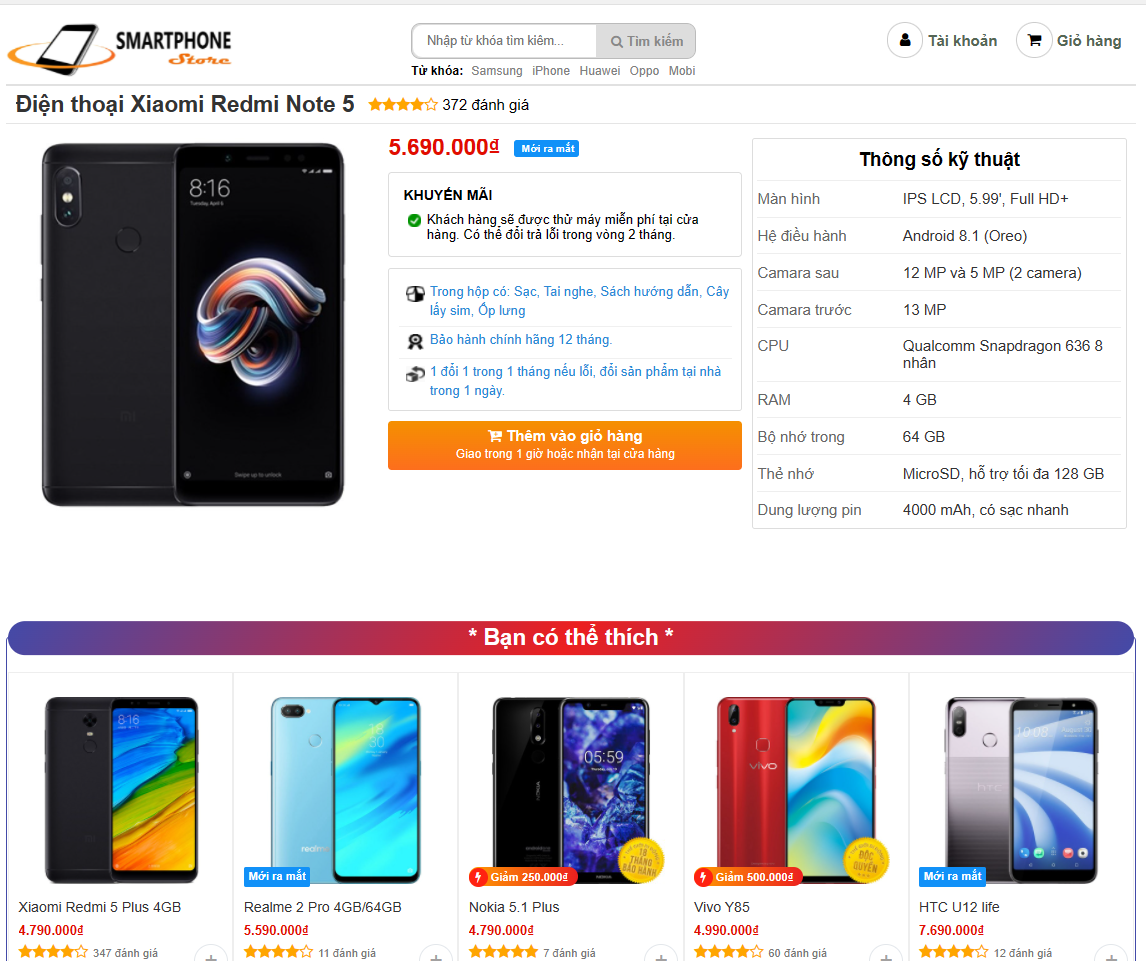
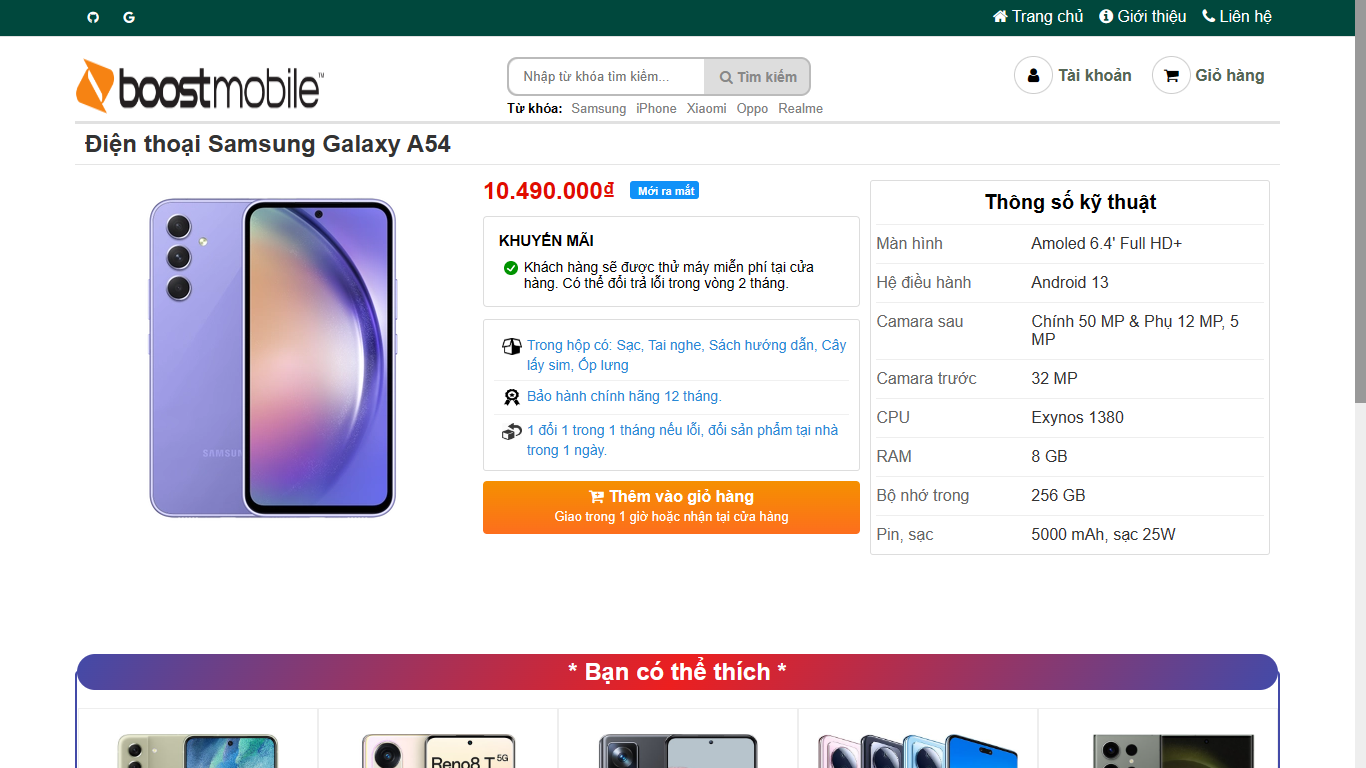
fix error and update file

diff --git a/lienhe.html b/lienhe.html
@@ -5,7 +5,7 @@
     <meta charset="UTF-8">
     <meta name="viewport" content="width=device-width, initial-scale=1.0">
     <meta http-equiv="X-UA-Compatible" content="ie=edge">
-    <title>Liên hệ - Thế giới điện thoại</title>
+    <title>Liên hệ - Contact</title>
     <link rel="shortcut icon" href="img/favicon.ico" />
 
     <!-- Load font awesome icons -->
@@ -39,23 +39,24 @@
             <div class="lienhe-info">
                 <div class="info-left">
                     <p>
-                        <h2 style="color: gray"> CÔNG TY CỔ PHẦN BOOSTMOOBILE </h2><br />
-                        <b>Địa chỉ:</b> 97 Man Thiện, Phường Hiệp Phú, Thành Phố Thủ Đức<br /><br />
-                        <b>Telephone:</b> xxx xxxx xxx<br /><br />
-                        <b>Hotline:</b> xxx xxxx xxx - CSKH: xxx xxxx xxx<br /><br />
-                        <b>Website:</b> <a href="https://github.com/HoangTran0410/DoAn_Web1">Github</a> <br /><br />
-                        <b>E-mail:</b> DoAn@gmail.com<br /><br />
-                        <b>Mã số thuế:</b> 01 02 03 04 05<br /><br />
-                        <b>Tài khoản ngân hàng :</b><br /><br />
-                        <b>Số TK:</b> 060008086888 <br /><br />
-                        <b>Tại Ngân hàng:</b> Agribank Chi nhánh Sài Gòn<br /><br /><br /><br />
-                        <b>Quý khách có thể gửi liên hệ tới chúng tôi bằng cách hoàn tất biểu mẫu dưới đây. Chúng tôi
-                            sẽ trả lời thư của quý khách, xin vui lòng khai báo đầy đủ. Hân hạnh phục vụ và chân thành
-                            cảm ơn sự quan tâm, đóng góp ý kiến đến Smartphone Store.</b>
+                    <h2 style="color: gray"> CÔNG TY CỔ PHẦN BOOSTMOOBILE </h2><br />
+                    <b>Địa chỉ:</b> 97 Man Thiện, Phường Hiệp Phú, Thành Phố Thủ Đức<br /><br />
+                    <b>Telephone:</b> xxx xxxx xxx<br /><br />
+                    <b>Hotline:</b> xxx xxxx xxx - CSKH: xxx xxxx xxx<br /><br />
+                    <b>Website:</b> <a href="https://github.com/hungp03/BoostStore">Github</a> <br /><br />
+                    <b>E-mail:</b> DoAn@gmail.com<br /><br />
+                    <b>Mã số thuế:</b> 0123456543210<br /><br />
+                    <b>Tài khoản ngân hàng :</b><br /><br />
+                    <b>Số TK:</b> 01234567890 <br /><br />
+                    <b>Tại Ngân hàng:</b> TP bank<br /><br /><br /><br />
+                    <b>Quý khách có thể gửi liên hệ tới chúng tôi bằng cách hoàn tất biểu mẫu dưới đây. Chúng tôi
+                        sẽ trả lời thư của quý khách, xin vui lòng khai báo đầy đủ. Hân hạnh phục vụ và chân thành
+                        cảm ơn sự quan tâm, đóng góp ý kiến đến BoostMobile Store.</b>
                     </p>
                 </div>
                 <div class="info-right">
-                    <iframe height="450px" width="100%" frameborder="0" scrolling="no" marginheight="0" marginwidth="0" src="https://maps.google.com/maps?width=600&amp;height=400&amp;hl=en&amp;q=97 Man Thien&amp;t=&amp;z=15&amp;ie=UTF8&amp;iwloc=B&amp;output=embed"></iframe>
+                    <iframe height="450px" width="100%" frameborder="0" scrolling="no" marginheight="0" marginwidth="0"
+                        src="https://maps.google.com/maps?width=600&amp;height=400&amp;hl=en&amp;q=97 Man Thien&amp;t=&amp;z=15&amp;ie=UTF8&amp;iwloc=B&amp;output=embed"></iframe>
                     <br />
                 </div>
             </div>
@@ -73,8 +74,8 @@
                             </tr>
                             <tr>
                                 <td>Điện thoại liên hệ</td>
-                                <td><input type="text" name="sdt" size="40" maxlength="11" minlength="10" placeholder="Điện thoại"
-                                        required></td>
+                                <td><input type="text" name="sdt" size="40" maxlength="11" minlength="10"
+                                        placeholder="Điện thoại" required></td>
                             </tr>
                             <tr>
                                 <td>Địa chỉ Email</td>
@@ -107,14 +108,13 @@
                             <th>MSSV</th>
                             <th>Giới tính</th>
                             <th>Lớp</th>
-                            <th>Tỉ lệ công việc</th>
                         </tr>
                         <script>
                             var thongtin = [
-                                ["Trần Văn Hoàng", "3117410091", "Nam", "DCT1175", "%"],
-                                ["Đàm Thế Hào", "3117410065", "Nam", "DCT1175", "%"],
-                                ["Huỳnh Trung Hiển", "3117410072", "Nam", "DCT1173", "%"],
-                                ["Hoàng Hiệp", "3117410074", "Nam", "DCT1175", "%"]
+                                ["Phạm Văn Hùng", "N21DCCN035", "Nam", "D21CQCN01-N"],
+                                ["Bùi Hữu Trí", "N21DCAT058", "Nam", "D21CQAT01-N"],
+                                ["Vũ Gia Huy", "N21DCCN039", "Nam", "D21CQCN01-N"],
+                                ["Hồ Anh Tuấn", "N21DCCN089", "Nam", "D21CQCN01-N"]
                             ]
                             for (var i = 0; i < thongtin.length; i++) {
                                 document.write(
@@ -128,9 +128,7 @@
                                     thongtin[i][2] + `</td>
                                         <td>` +
                                     thongtin[i][3] + `</td>
-                                        <td>` +
-                                    thongtin[i][4] +
-                                    `</td>
+                                
                                     </tr>
                                 `
                                 )

diff --git a/js/admin.js b/js/admin.js
@@ -253,8 +253,8 @@ function layThongTinSanPhamTuTable(id) {
     var cpu = tr[15].getElementsByTagName('td')[1].getElementsByTagName('input')[0].value;
     var ram = tr[16].getElementsByTagName('td')[1].getElementsByTagName('input')[0].value;
     var rom = tr[17].getElementsByTagName('td')[1].getElementsByTagName('input')[0].value;
-    var microUSB = tr[18].getElementsByTagName('td')[1].getElementsByTagName('input')[0].value;
-    var battery = tr[19].getElementsByTagName('td')[1].getElementsByTagName('input')[0].value;
+   
+    var battery = tr[18].getElementsByTagName('td')[1].getElementsByTagName('input')[0].value;
 
     if(isNaN(price)) {
         alert('Giá phải là số nguyên');
@@ -291,7 +291,6 @@ function layThongTinSanPhamTuTable(id) {
                 "cpu": cpu,
                 "ram": ram,
                 "rom": rom,
-                "microUSB": microUSB,
                 "battery": battery
             },
             "masp" : masp
@@ -418,7 +417,7 @@ function addKhungSuaSanPham(masp) {
             <td>
                 <select>`
                     
-    var company = ["Apple", "Samsung", "Oppo", "Nokia", "Huawei", "Xiaomi","Realme", "Vivo", "Philips", "Mobell", "Mobiistar", "Itel","Coolpad", "HTC", "Motorola"];
+    var company = ["Apple", "Samsung", "Oppo", "Nokia", "Asus", "Xiaomi","Realme", "Vivo", "Masstel", "Mobell", "Tecno", "Itel","Oneplus", "TCL", "ZTE"];
     for(var c of company) {
         if(sp.company == c)
             s += (`<option value="`+c+`" selected>`+c+`</option>`);
@@ -494,10 +493,6 @@ function addKhungSuaSanPham(masp) {
         <tr>
             <td>Bộ nhớ trong:</td>
             <td><input type="text" value="`+sp.detail.rom+`"></td>
-        </tr>
-        <tr>
-            <td>Thẻ nhớ:</td>
-            <td><input type="text" value="`+sp.detail.microUSB+`"></td>
         </tr>
         <tr>
             <td>Dung lượng Pin:</td>

diff --git a/js/dungchung.js b/js/dungchung.js
@@ -549,16 +549,13 @@ function addTopNav() {
 	<div class="top-nav group">
         <section>
             <div class="social-top-nav">
-                <a class="fa fa-facebook"></a>
-                <a class="fa fa-twitter"></a>
+                <a class="fa fa-github" href="https://github.com/hungp03/BoostStore"></a>
                 <a class="fa fa-google"></a>
-                <a class="fa fa-youtube"></a>
             </div> <!-- End Social Topnav -->
 
             <ul class="top-nav-quicklink flexContain">
                 <li><a href="index.html"><i class="fa fa-home"></i> Trang chủ</a></li>
                 <li><a href="gioithieu.html"><i class="fa fa-info-circle"></i> Giới thiệu</a></li>
-                <li><a href="trungtambaohanh.html"><i class="fa fa-wrench"></i> Bảo hành</a></li>
                 <li><a href="lienhe.html"><i class="fa fa-phone"></i> Liên hệ</a></li>
             </ul> <!-- End Quick link -->
         </section><!-- End Section -->
@@ -571,7 +568,7 @@ function addHeader() {
 	<div class="header group">
         <div class="logo">
             <a href="index.html">
-                <img src="img/logo.jpg" alt="Trang chủ Smartphone Store" title="Trang chủ Smartphone Store">
+                <img src="img/logo.jpg" alt="Trang chủ BoostMobile Store" title="Trang chủ BoostMobile">
             </a>
         </div> <!-- End Logo -->
 
@@ -877,9 +874,7 @@ function getThongTinSanPhamFrom_TheGioiDiDong() {
 						case "Bộ nhớ trong:":
 							result.detail.rom = giatri;
 							break;
-						case "Thẻ nhớ:":
-							result.detail.microUSB = giatri;
-							break;
+						
 						case "Dung lượng pin:":
 							result.detail.battery = giatri;
 							break;

diff --git a/css/topnav.css b/css/topnav.css
@@ -1,7 +1,7 @@
 /* Top Navigation */
 	.top-nav {
 		display: inline-block;
-		background: #f1f1f1;
+		background: #00483d;
 		width: 100%;
 		border-bottom: 1px #e1e1e1 solid;
 	}
@@ -19,16 +19,15 @@
 			height: 2em;
 			width: 2em;
 			line-height: 2em;
-			color: gray;
-			background-color: #f1f1f1;
+			color: white;
+			background-color: #00483d;
 			transition-duration: .2s;
 		}
+		
 		/* hightlight icon fb, google, youtube .... when hover */
 		.social-top-nav a:hover { color: #fff; }
-		.fa-facebook:hover { background: #3B5998; }
-		.fa-twitter:hover { background: #55ACEE; }
 		.fa-google:hover { background: #dd4b39; }
-		.fa-youtube:hover { background: #bb0000; }
+		.fa-github:hover { background: #090135; }
 	/* ======= End Social Icon ======= */
 
 	/* Quick link */
@@ -42,14 +41,14 @@
 		}
 		.top-nav-quicklink li a {
 			display: block;
-			color: gray;
-			padding: 8px 15px;
+			color: rgb(255, 255, 255);
+			padding: 8px 8px;
 			transition-duration: .15s;
 		}
 		.top-nav-quicklink li a:hover {
-			padding-top: 4px; 
-			border-bottom: 4px solid #000;
-			color: #000;
+			padding-top: 1px; 
+			border-bottom: 1px solid #f7d2d2;
+			color: #f7d2d2;
 		}
 		.top-nav-quicklink li a:hover i {
 			color: Dodgerblue;

diff --git a/gioithieu.html b/gioithieu.html
@@ -5,7 +5,7 @@
     <meta charset="UTF-8">
     <meta name="viewport" content="width=device-width, initial-scale=1.0">
     <meta http-equiv="X-UA-Compatible" content="ie=edge">
-    <title>Giới thiệu - Thế giới điện thoại</title>
+    <title>Giới thiệu - BoostMobile</title>
     <link rel="shortcut icon" href="img/favicon.ico" />
 
     <!-- Load font awesome icons -->
@@ -46,10 +46,6 @@
                 Giới thiệu
             </h4>
             <div class="page-info">
-                <p>Được thành lập từ năm 1996, chúng tôi là một trong những nhà phân phối ĐTDĐ đầu tiên tại Hà Nội và
-                    kể từ năm 2000, chúng tôi chính thức trở thành nhà phân phối ĐTDĐ SamSung – Masterdealer duy nhất
-                    tại 194 đường Lê Duẩn.
-                </p>
                 <br />
                 <p>
                     Với bề dày gần 10 năm kinh nghiệm và uy tín đã tạo được trong những năm vừa qua, chúng tôi luôn đem

diff --git a/chitietsanpham.html b/chitietsanpham.html
@@ -5,7 +5,7 @@
     <meta charset="UTF-8">
     <meta name="viewport" content="width=device-width, initial-scale=1.0">
     <meta http-equiv="X-UA-Compatible" content="ie=edge">
-    <title>Thế giới điện thoại</title>
+    <title>BoostMobile</title>
     <link rel="shortcut icon" href="img/favicon.ico" />
 
     <!-- Load font awesome icons -->
@@ -100,9 +100,7 @@
                 <div class="overlaycertainimg-content">
                     <img id="bigimg" class="bigimg" src="img/chitietsanpham/oppo-f9-red-2-400x460.png">
                     <div class="div_smallimg owl-carousel">
-                        <!-- <img src="img/chitietsanpham/oppo-f9-mau-do-1-org.jpg" onclick="changepic(this.src)">
-                        <img src="img/chitietsanpham/oppo-f9-mau-do-2-org.jpg" onclick="changepic(this.src)">
-                        <img src="img/chitietsanpham/oppo-f9-mau-do-3-org.jpg" onclick="changepic(this.src)"> -->
+                        
                     </div>
                 </div>
             </div>

diff --git a/js/chitietsanpham.js b/js/chitietsanpham.js
@@ -44,7 +44,7 @@ function phanTich_URL_chiTietSanPham() {
     var divChiTiet = document.getElementsByClassName('chitietSanpham')[0];
 
     // Đổi title
-    document.title = nameProduct + ' - Thế giới điện thoại';
+    document.title = nameProduct + ' - BoostMoible';
 
     // Cập nhật tên h1
     var h1 = divChiTiet.getElementsByTagName('h1')[0];
@@ -87,7 +87,7 @@ function phanTich_URL_chiTietSanPham() {
     s += addThongSo('CPU', sanPhamHienTai.detail.cpu);
     s += addThongSo('RAM', sanPhamHienTai.detail.ram);
     s += addThongSo('Bộ nhớ trong', sanPhamHienTai.detail.rom); 
-    s += addThongSo('Dung lượng pin', sanPhamHienTai.detail.battery);
+    s += addThongSo('Pin, sạc', sanPhamHienTai.detail.battery);
     info.innerHTML = s;
 
     // Cập nhật hình

diff --git a/css/footer.css b/css/footer.css
@@ -1,11 +1,11 @@
 /* Plc */
 .plc {
-	background: #dae2dc;
+	background: #00483d;
 	/* overflow: hidden; */
 	font-size: 15px;
 	color: #333;
-	border-top: 1px solid #bbb;
-	border-bottom: 1px solid #bbb;
+	border-top: none;
+	border-bottom: none;
 }
 
 .plc ul {
@@ -18,8 +18,9 @@
 	box-sizing: border-box;
 	padding: 5px 10px;
 	line-height: 20px;
-	border-right: solid 1px #bbb;
+	border-right: none;
 	margin: 5px 0;
+	color: antiquewhite
 }
 
 .plc li:last-child {
@@ -42,7 +43,7 @@
 	line-height: 40px;
 	font-size: 14px;
 	color: #ccc;
-	background-color: #252525;
+	background-color: #00483d;
 }
 
 .copy-right a {

diff --git a/data/products.js b/data/products.js
@@ -558,7 +558,7 @@ let list_products = [
     rateCount: 0,
     promo:{
       name: "giamgia",
-      value: "16.990.000",
+      value: "1.790.000",
     },
     detail: {
       screen: "Amoled 6.7' Full HD+",
@@ -571,7 +571,7 @@ let list_products = [
       battery: "4500 mAh, sạc 80W",
     },
     star: 4,
-    img: "https://cdn.tgdd.vn/Products/Images/42/260546/oppo-reno8-pro-thumb-xanh-1-600x600.jpg",
+    img: "https://cdn2.cellphones.com.vn/x358,webp,q100/media/catalog/product/o/p/oppo_reno8_pro_1_.jpg",
     masp: "sp25",
   },
   {

diff --git a/admin.html b/admin.html
@@ -6,7 +6,7 @@
     <meta name="viewport" content="width=device-width, initial-scale=1.0">
     <meta http-equiv="X-UA-Compatible" content="ie=edge">
 
-    <title>Admin - Thế giới điện thoại</title>
+    <title>Admin - BoostMobile</title>
     <link rel="shortcut icon" href="img/favicon.ico" />
 
     <!-- Load font awesome icons -->
@@ -28,7 +28,7 @@
 
 <body>
     <header>
-        <h2>SmartPhone Store - Admin</h2>
+        <h2>BoostMobile Store - Admin</h2>
     </header>
 
     <!-- Menu -->

diff --git a/index.html b/index.html
@@ -6,7 +6,7 @@
 	<meta name="viewport" content="width=device-width, initial-scale=1.0">
 	<meta http-equiv="X-UA-Compatible" content="ie=edge">
 
-	<title>Thế giới điện thoại</title>
+	<title>BoostMobile - Điện thoại chính hãng - xách tay</title>
 	<link rel="shortcut icon" href="img/favicon.ico" />
 
 	<!-- Load font awesome icons -->

diff --git a/giohang.html b/giohang.html
@@ -7,7 +7,7 @@
 	<meta http-equiv="X-UA-Compatible" content="ie=edge">
 	<link rel="shortcut icon" href="img/favicon.ico" />
 
-	<title>Thế giới điện thoại</title>
+	<title>BoostMobile</title>
 
 	<!-- Load font awesome icons -->
 	<link rel="stylesheet" href="https://cdnjs.cloudflare.com/ajax/libs/font-awesome/4.7.0/css/font-awesome.min.css"
